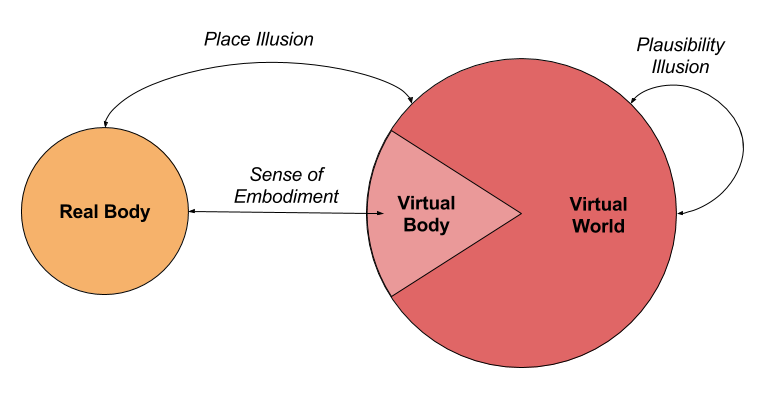
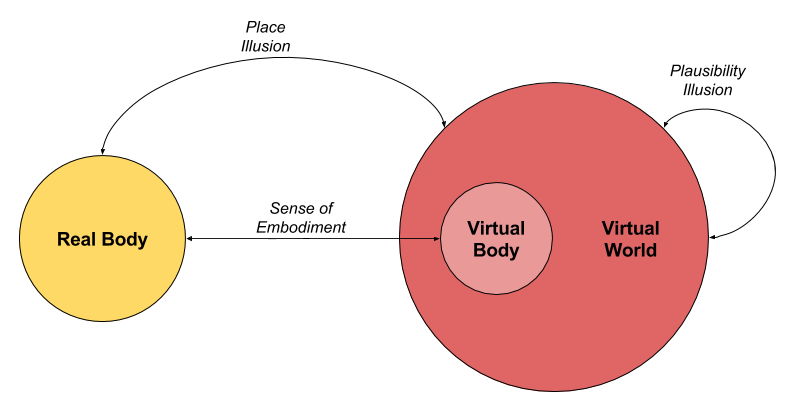
new diagram, captions and fixes to theory

diff --git a/theory.tex b/theory.tex
@@ -1,15 +1,15 @@
-In Chapter \ref{chap:introduction} the terms "immersion", "presence" (and "hand presence") and even "virtual reality" are used in a loose manner. In academia, however, these terms are problematic because of the wide range of fields in which they are used, with very specific and not always similar meanings. Here we will frame the virtual environment constraints problem in existing theories and ground these terms in the academic literature.
+In Chapter \ref{chap:introduction} the terms "immersion", "presence" (and "hand presence") and even "virtual reality" are used in a loose manner. In academia, however, these terms are problematic because of the wide range of fields in which they are used, with very specific, and not always similar meanings. Here we will frame the virtual environment constraints problem with existing theories and ground these terms in the academic literature.
 
 \section{Virtual Reality}
 \label{sec:vrDef}
 
-Virtual Reality is frequently thought of in terms of a collection of hardware devices commonly associated with the medium: head mounted displays, tracking devices, etc... One such definition focus on the technology is Coates':
+Virtual Reality is frequently thought of in terms of a collection of hardware devices commonly associated with the medium: head mounted displays, tracking devices, etc... One such definition focused on the technology is Coates':
 
 \begin{displayquote}
 \textit{"Virtual Reality is electronic simulations of environments experienced via head mounted eye goggles and wired clothing enabling the end user to interact in realistic three-dimensional situations."} As cited in \parencite{Steuer1992}.
 \end{displayquote}
 
-However, for the purposes of various fields of knowledge such as communication research and for software developers, \parencite{Steuer1992} argues that the medium needs a definition with an experiential focus instead of a technological one. Steuer works his way from Gibson's definition of presence "the sense of being in an environment" (as cited in \parencite{Steuer1992}) through telepresence as "the experience of presence in an environment by means of a communication medium" \parencite{Steuer1992} and finally arrives at a definition of virtual reality independent of any technological specifics as:
+However, for the purposes of various fields of knowledge such as communication research and for software developers, \parencite{Steuer1992} argues that the medium needs a definition with an experiential focus instead of a technological one. Steuer works his way from Gibson's definition of presence, "the sense of being in an environment" (as cited in \parencite{Steuer1992}), through telepresence as "the experience of presence in an environment by means of a communication medium" \parencite{Steuer1992} and finally arrives at a definition of virtual reality independent of any technological specifics as:
 
 \begin{displayquote}
 \textit{A virtual reality is a real or simulated environment in which a perceiver experiences a sense of being in that environment by means of a communication medium.} \parencite{Steuer1992}
@@ -18,7 +18,7 @@ However, for the purposes of various fields of knowledge such as communication r
 \section{Immersion}
 \label{sec:immersion}
 
-Slater provides a definition of immersion based on "the actions we know to carry out in order to perceive" or Sensorimotor Contingencies (SC), from behavioural and brain scientist O'Regan and Noë (as cited in \parencite{Slater2009}). Examples of SCs are turning one's moving your eyes to look in a certain direction, reaching out with our hand to feel a surface with our sense of touch or turning our head sideways to align one of our ears with the direction that a sound seems to come from in order to hear it more clearly. Note that SCs relate to all of our senses. Slater's definition of immersion is:
+Slater provides a definition of immersion based on "the actions we know to carry out in order to perceive" or Sensorimotor Contingencies (SC), from behavioural and brain scientist O'Regan and Noë (as cited in \parencite{Slater2009}). Examples of SCs are turning our head and moving our eyes to look in a certain direction, reaching out with our hand to feel a surface with our sense of touch or turning our head sideways to align one of our ears with the direction that a sound seems to come from in order to hear it more clearly. Note that SCs relate to all of our senses. Slater's definition of immersion is:
 
 \begin{displayquote}
 \textit{Immersion is a property of the actions that the user can take that result in changes in perception (Valid Sensorimotor Actions), or changes to the environment (Valid Effectual Actions) within a system.} \parencite{Slater2009}
@@ -35,21 +35,19 @@ In the context of Virtual Reality, the term presence is usually used meaning the
 
 These definitions are however rather unspecific on their own and require further explanation to be useful. In an interview, Slater describes PI as "the result of using your body to perceive in the way that you would normally" and Psi as "the result of the observed coherence of the world and the extent to which it matches our expectations about how it works" \parencite{Slater2015}.
 
-Considering only these new descriptions, one might wonder if having a virtual body is in fact connected to PI at all. Without having a virtual body, would it still be possible to perform the same actions with our real body to produce the same changes in our sensory displays? We could turn our real head to look around, but when looking down, we wouldn't see our body. We could reach out with our read hand and feel an object when we touch it, but our hand would not occlude the view of the object we are touching. Our body is a constant in our perception, the actions we perform to perceive the world are always conditioned by the fact that our body is always there. Therefore, we consider that having a virtual body that synchronously follows the movements of our real body is part of PI. In fact, Slater points at the body as being related to both PI and Psi:
+Considering only these new descriptions, one might wonder if having a virtual body is in fact connected to PI at all. Without having a virtual body, would it still be possible to perform the same actions with our real body to produce the same changes in our sensory displays? We could turn our real head to look around, but when looking down, we wouldn't see our body. We could reach out with our read hand and feel an object when we touch it, but our hand would not occlude the view of the object we are touching. Our body is a constant in our perception, the actions we perform to perceive the world are always conditioned by the fact that our body is always there. Therefore, we consider that having a virtual body that synchronously follows the movements of our real body is part of PI insofar as this makes our "virtual senses" perceive it when they normally would in reality. In fact, Slater points at the body as being related to both PI and Psi:
 
 \begin{displayquote}
 \textit{"The body is a focal point where PI and Psi are fused. As we have argued the action involved in looking at your own body provides very powerful evidence for PI (your body is in the place you perceive yourself to be). However, this virtual body is not yours, it is a representation of you. In principle you have no control over what it does. Now suppose you move your limbs and you see the limbs of this virtual body move in synchrony. This is a very powerful event in the external world that clearly relates to you – a correlation between proprioception and visual exteroception. Further, it is likely that there would be some degree of ownership over this virtual body – it comes to ‘really’ seem to be your body (even though you know it cannot be)."} \parencite{Slater2009}
 \end{displayquote}
 
-The connection between the body and Psi that Slater is describing here is subtle. In \parencite{Slater2009} he points out that a key component of Psi is that events in the virtual environment refer directly to you. A straightforward example that Slater himself uses is virtual characters acknowledging you and acting in a believable way towards you. But the virtual body you see in the space you occupy is not your own, it is also part of the virtual world and by reacting to you movements it establishes a relation to you that includes you in that virtual world. Since you are real, your inclusion in the virtual world makes it more real.
+The connection between the body and Psi that Slater is describing here is subtle. In \parencite{Slater2009} he points out that a key component of Psi is that events in the virtual environment and over which you have no direct control, refer directly to you. A straightforward example that Slater himself uses is virtual characters acknowledging you and acting in a believable way towards you. But the virtual body you see in the space you occupy is not your own, it is also part of the virtual world and by reacting to you movements it establishes a relation to you that includes you in that virtual world. Since you are real, your inclusion in the virtual world makes it more real.
 
 Interestingly, Slater doesn't explicitly relate the physics of the virtual world with either PI or Psi. We would argue though, that because of our knowledge of how real physical objects work, our expectation will be that the objects that we see in virtual reality behave the same way, therefore we consider physics to be related to Psi. This includes how our virtual body should interact with the virtual environment. A dissonance between the way the real world works and the way the virtual world works would remind us of the irreality of the experience, which would be a break of Psi. If the world we perceive doesn't work like the real world, it cannot be the real world. 
 
-We should emphasize that both PI and Psi are subjective experiences. In the same virtual reality, a user that only looks around in a virtual environment will have a very different degree of PI than one that moves around a lot and runs into a real wall, tries to touch a virtual object and realizes they can't feel it with their sense of touch. In regards to Psi, the user's expectations of the world will be different based on their knowledge of it. For instance: a chemist will have very different expectations about a virtual chemistry lab than a farmer.
+We should emphasize that both PI and Psi are subjective experiences. In the same virtual reality, a user that only looks around in a virtual environment will have a very different degree of PI than one that moves around a lot and runs into a real wall, tries to touch a virtual object and realizes they can't feel it with their sense of touch... In regards to Psi, the user's expectations of the world will be different based on their knowledge of it. For instance, a chemist will have very different expectations about a virtual chemistry lab than a computer engineer.
 
-Slater's work is not developed specifically for VR games. His research is concerned with how to elicit realistic behaviors in virtual situations, which is extremely relevant in order to use VR for therapeutic purposes or to explore moral issues. The degree of PI and Psi that games might be interested in producing might be different. Some genres, like horror games, might benefit from having realistic virtual environments that produce a high degree of Psi, while other genres might have no interest in such realism and in those cases the effort will have to be in producing suspension of disbelief in the player and maintaining a coherent world that matches the expectations set by the tone of the game.
-
-\todo[inline]{Mention PI as the spatial experience of being inside a world \parencite{Kilteni2012}?}
+Slater's work is not developed specifically for VR games. His research is concerned with how to elicit realistic behaviors in virtual situations, which is extremely relevant in order to use VR for therapeutic purposes or to explore moral issues, among other things. The degree of PI and Psi that games might be interested in producing might be different. Some genres, like perhaps horror games, might benefit from having realistic virtual environments that produce a high degree of Psi, while other genres might have no interest in such realism and in those cases, the effort will have to be in producing a suspension of disbelief in the player and maintaining a coherent world that matches the expectations set by the tone of the game.
 
 \section{Sense of Embodiment}
 \label{sec:embodiment}
@@ -70,27 +68,39 @@ Kilteni et al. further explain SoE in terms of three subcomponents:
 \end{itemize}
 \end{displayquote}
 
-The Sense of Self-Location in the virtual body should be produced when the virtual body synchronously aligns with the real body. If the virtual body executes our intentions (most likely expressed through the movements of our real body interpreted in the context of the virtual world), we will feel a Sense of Agency towards the virtual body. Finally, the Sense of Body Ownership is correlated with the previous two, but also results from the suppression of the stimuli from the real world \parencite{Schubert1999} and the synchronization of the virtual stimuli with the state of the virtual body, in other words, if the sensations that the user experiences happen when the interaction of the virtual body with its environment would produce them.
+The Sense of Self-Location in the virtual body should be produced when the virtual body synchronously aligns with the real body. Kilteni et al. indicate that self-location should not be confused with the spatial experience of being inside a world, unlike Place Illusion, the Sense of Self-Location cannot happen at all without a virtual body. If the virtual body executes our intentions (most likely expressed through the movements of our real body interpreted in the context of the virtual world), we will feel a Sense of Agency towards the virtual body. Finally, the Sense of Body Ownership is correlated with the previous two, but also results from the suppression of the stimuli from the real world \parencite{Schubert1999} and the synchronization of the virtual stimuli with the state of the virtual body, in other words, if the sensations that the user experiences happen when the interaction of the virtual body with its environment would produce them.
 
 \begin{figure}[h]
 \centering
 \includegraphics[width=\textwidth]{piPsiSoeDiagram.png}
-\caption{Caption}
+\caption{Summary of the relationships between real body, virtual body and virtual world defined by PI, Psi and SoE. The virtual Body is understood to be part of the virtual world. PI has to do with how the sensory displays update, conveying information about the virtual world, with the movements of the real body. Psi can be understood as the result of the user's evaluation of the virtual world's coherence and the interaction between its elements. SoE has to do with the relationship between the real and the virtual body. It is produced by the perceived spatially alignment between the virtual body and the real body (Sense of Self-Location), by how the real body controls the virtual body (Sense of Agency) and by whether stimuli are perceived to be correlated to the virtual body or the real body (Sense of Body Ownership).}
 \label{fig:piPsiSoeDiagram}
 \end{figure}
 
-\todo[inline]{
-Fill in caption.
-Virtual body is just a particular case of the virtual world and in regards to PI, it is just a part that we ALWAYS perceive when we perform some sensorimotor actions.
-Psi is VW on VW and VW on VB and VB on VB.
-PI is RB on VW and RB on VB.
-SoE is RB on VB.
-}
+\section{Sensory Perspective}
+\label{sec:sensoryPerspective}
+
+In real life, our body determines the "perspective" of our senses, we sense from our body: what we see is restricted by the position of our eyes, we can only feel an object with our touch if we can reach it with our hands. In Virtual Reality one has the option to restrict our senses either with the real body or with the virtual body.
+
+An example focused on the sense of sight to illustrate the difference: Imagine the case where a user moves their real head to a position that corresponds to somewhere inside a virtual object. If the virtual body is constrained by the virtual environment, it will separate from the real body at the surface of the virtual object. At this point, if the sense perspective is restricted to the virtual body, the user will see from the perspective of the virtual body, but if the sense perspective is restricted by the real body, the user will see from outside of the virtual body, seeing instead from where their real body is: the inside of the virtual object.
+
+\begin{figure}[h]
+\centering
+\includegraphics[width=\textwidth]{SensesDiagram.png}
+\caption{The 3D diagram represents the virtual world overlayed on the real world. The sense perspective need not be restricted to the real body. This can be a design choice - as described in the text - or a limitation of the system (e.g. insufficient or imprecise tracking). Likewise, the sense perspective could be made to not coincide with the perspective of the virtual body in cases when the body is restricted by virtual obstacles that make it not be able to align with the real body.}
+\label{fig:sensesDiagram}
+\end{figure}
+
+The first behavior is the most coherent from the virtual world's side and could benefit the Sense of Ownership of the virtual body because it connects the virtual senses of the user to it instead of to their real body. At the same time, the Sense of Self-Location would be challenged by the conflicting signals between our proprioception and our sight.
+
+The second behavior could produce a break in Psi because seeing from inside of a solid should not match anyone's expectations about the worlds possibilities. It could also be argued that it would impact PI negatively, since from that situation we might be able to see our body from outside of it, which is not something our normal SCs would allow.
+
+We would remiss if we didn't mention that at least in regards to the sense of sight, the first behavior might fall under what is generally considered a bad practice by the VR software development community. Specifically, it is discouraged to move the camera in any way that doesn't match the user's head movements because it is thought to produce physical discomfort in the user \parencite{UnityCamera, OculusCamera}. This would be an issue that would have to be considered in much greater detail if the focus of this work wasn't only on the control of the hands.
 
 \section{The Virtual Constraints Problem}
 \label{sec:virtualContraintsProblem}
 
-We now seek to describe the problem that we are addressing in this work, that is, the Virtual Constraints Problem, using the concepts that we have just defined. Furthermore, we shall use the theory to argue why the adjusted hand control model is an approach worth exploring.
+We now seek to describe the problem that we are addressing in this work, that is, the Virtual Constraints Problem, using the concepts that we have just defined. Furthermore, we shall use the reviewed theory and existing related research to argue why the adjusted hand control model is an approach worth exploring.
 
 The Virtual Constraints Problem has two conflicting goals:
 
@@ -101,13 +111,9 @@ The Virtual Constraints Problem has two conflicting goals:
 
 The first goal is mainly related to Psi. As previously discussed, the user knows how real bodies interact with the environment and if their virtual body does not interact with the environment like they know real bodies do, this dissonance will remind the user of the irreality of the virtual experience. If the world we are perceiving doesn't work like the real world, the world we are perceiving cannot be the real world, thus what is apparently happening is not really happening, which implies a break of Psi.
 
-The second goal has to do with the PI, Sense of Self-Location and the Sense of Agency. If the virtual body separates from the real body, the user might stop perceiving themselves to be occupying the space where the virtual body is, which implies losses in PI and the Sense of Self-Location in the virtual body. In the case of Sense of Agency, the loss would happen if the separation of the virtual body from the real body happens in a way that makes the user stop feeling in control of the virtual body.
+The second goal has to do with the Sense of Self-Location,  the Sense of Agency and PI. If the virtual body separates from the real body, the user might stop perceiving themselves to be occupying the space where the virtual body is, which implies losses in Sense of Self-Location in the virtual body. In the case of Sense of Agency, the loss would happen if the separation of the virtual body from the real body happens in a way that makes the user stop feeling in control of the virtual body. Lastly, the effect on PI is harder to anticipate. When the real and virtual bodies have a different pose, the movements that the real body can do to alter the sensory displays are different from the ones that the virtual body should be able to do (assuming that the virtual body is restricted as if it had the same bone structure, etc... as real bodies) and in this way, PI might be reduced.
 
-We can see that the conflicting goals of the Virtual Constraints Problem bring to light conflicting requirements between Psi and some of the components of SoE.
-
-\todo[inline]{Connecting sentence? Something about the next section saying that there the theory suggests there is hope in the adjusted hand control model.}
-
-\todo[inline]{In relation to PI: adjusted hand control models add SCs (but they don't necessarily remove SCs?)}
+We can see that the conflicting goals of the Virtual Constraints Problem bring to light conflicting requirements of Psi and some of the components of SoE and even possibly PI.
 
 \subsection{The Rubber Hand Illusion}
 \label{subsec:rubberHandIllusion}
@@ -119,21 +125,6 @@ The well-known Rubber Hand Illusion, originally reported in \parencite{Botvinick
 \parencite{Sanchez-Vives2010} replicated the illusion with a virtual reality setup by making the virtual hand follow the movements of the subject's real hand, instead of using the sense of touch to induce the illusion, and found both proprioceptive drift and a degree of attribution of the virtual hand. These illusions map with the concepts of Sense of Place and Sense of Ownership that we pursue with our virtual hands.
 
 \parencite{Kilteni2012}'s components of Sense of Embodiment seem to be found in the the Rubber Hand Illusion family of experiments and their similarity to the virtual hand - real hand separation produced by adjusted hand control models suggests that the results are transferable to our problem.
-
-\subsection{From Where Should We Sense?}
-\label{subsec:sensePerspective}
-
-In real life, our body determines the "perspective" of our senses, we sense from our body: what we see is restricted by the position of our eyes, we can only feel an object with our touch if we can reach it with our hands. In Virtual Reality one has the option to restrict our senses either with the real body or with the virtual body. 
-
-Imagine the case where a user moves their real head to a position that corresponds to somewhere inside a virtual object. If the virtual body is constrained by the virtual environment, it will separate from the real body at the surface of the virtual object. At this point, if the sense perspective is restricted to the virtual body, the user will see from the perspective of the virtual body, but if the sense perspective is restricted by the real body, the user will see from inside of the virtual object. 
-
-The first behavior is the most coherent one and should benefit the Sense of Ownership of the virtual body because it connects the virtual senses of the user to it instead of to their real body. At the same time, the Sense of Self-Location would be challenged by the conflicting signals between our proprioception and our sight.
-
-The second behavior would produce a break in Psi because seeing from inside of a solid should not match anyone's expectations about the worlds possibilities. It could also be argued that it would impact PI negatively, since from that situation we might be able to see our body from outside of it, which is not something our normal SCs would allow.
-
-We would remiss if we didn't mention that at least in regards to the sense of sight, the first behavior might fall under what is generally considered a bad practice by the VR software development community. Specifically, it is discouraged to move the camera in any way that doesn't match the user's head movements because it is thought to produce discomfort in the user \parencite{UnityCamera, OculusCamera}. This would be an issue that would have to be considered in much greater detail if the focus of this work wasn't on the control of the hands.
-
-\todo[inline]{Relationship between SoE and PI. Disembodying user. Rewrite.}
 
 \section{Critiques of Movement Interaction}
 \label{sec:critiquesMovementInteraction}
